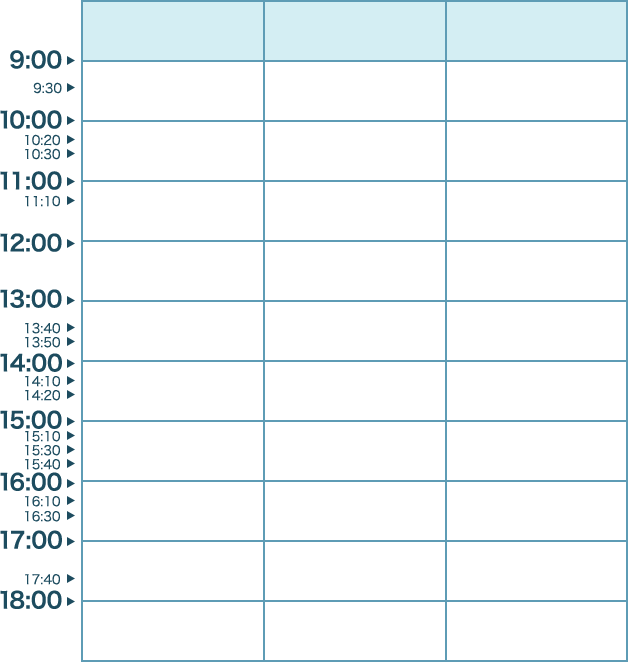
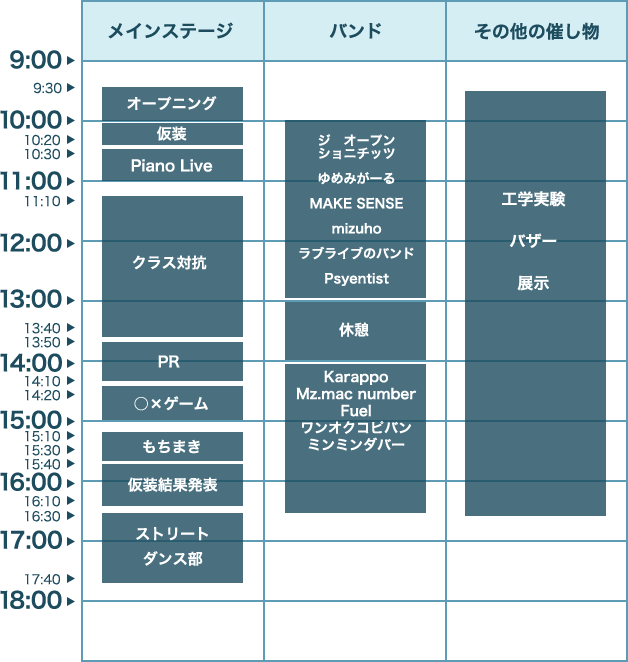
finish pc-pages

diff --git a/schedule.html b/schedule.html
@@ -23,19 +23,30 @@
 		</div>
 		<div class="schedule-content">
 			<h3>Day1</h3>
-			<div class="table">
-				<table>
-					<tr>
-						<th>メインステージ</th>
-						<th>バンド</th>
-						<th>その他の催し物</th>
-					</tr>
-				</table>
-				
-				<div class="event">
-					オープニング
-				</div>
+			<div class="table1">
+				<img src="img/detail.png" id="detail-1">
+				<img src="img/detail.png" id="detail-2">
 			</div>
 		</div>
+		<div class="schedule-content">
+			<h3>Day2</h3>
+			<div class="table2">
+				<img src="img/detail.png" id="detail-3">
+				<img src="img/detail.png" id="detail-4">
+			</div>
+		</div>
+		<div class="links">
+			<div class="link"><b>宇部高専<br>公式サイトはこちら</b></div>
+			<div class="link"><b>高専祭<br>公式サイトはこちら</b></div>
+			<div class="link"><b>このサイトについて</b></div>
+		</div>
+		<div class="sns">
+			<img src="img/tweet.png">
+			<img src="img/good.png">
+			<img src="img/bookmark.png">
+		</div>
+		<footer>
+			
+		</footer>
 	</body>
 </html>

diff --git a/style.css b/style.css
@@ -326,12 +326,31 @@ th{
 	margin: 0 auto;
 	width: 700px;
 }
-.table{
+.table1{
 	height: 800px;
 	background: url(img/day1.png) no-repeat;
 }
-.event{
-	width: 140px;
-	color: #fff;
-	background: rgba(29,76,95,0.8);
+.table2{
+	height: 800px;
+	background: url(img/day2.png) no-repeat;
+}
+#detail-1{
+	position: relative;
+	top: 460px;
+	left: 290px;
+}
+#detail-2{
+	position: relative;
+	top: 460px;
+	left: 335px;
+}
+#detail-3{
+	position: relative;
+	top: 430px;
+	left: 290px;
+}
+#detail-4{
+	position: relative;
+	top: 400px;
+	left: 335px;
 }
